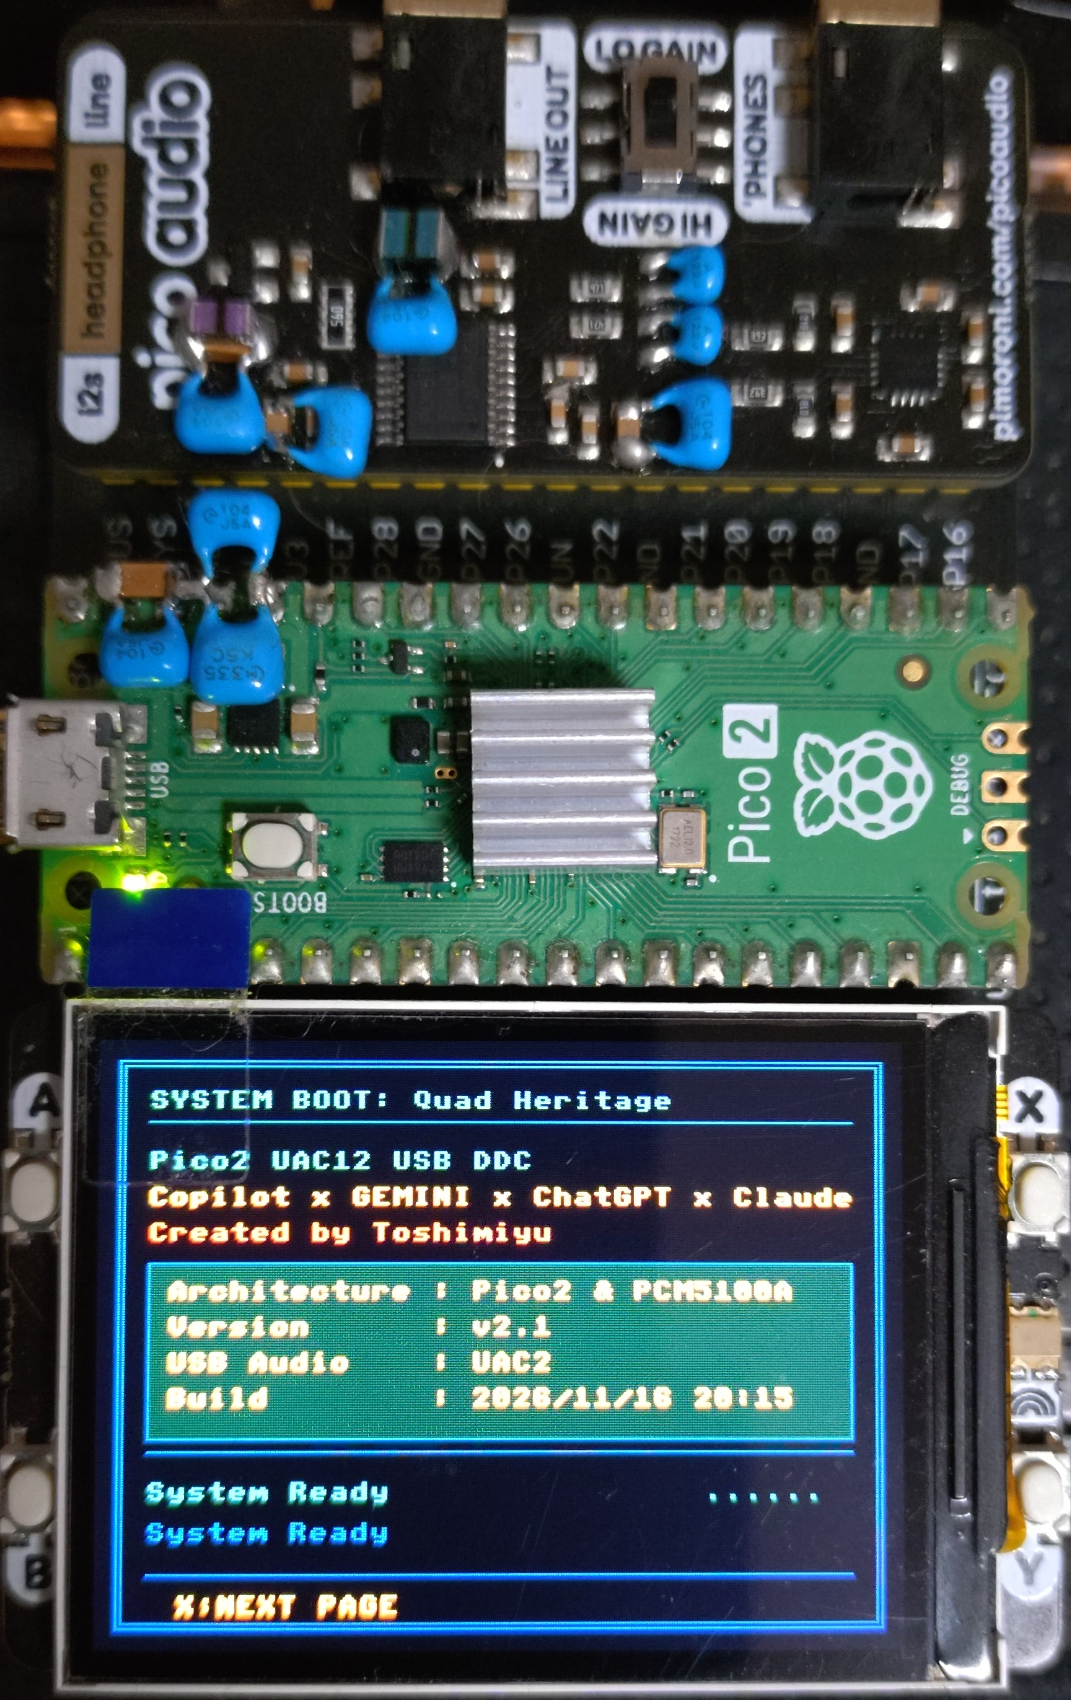
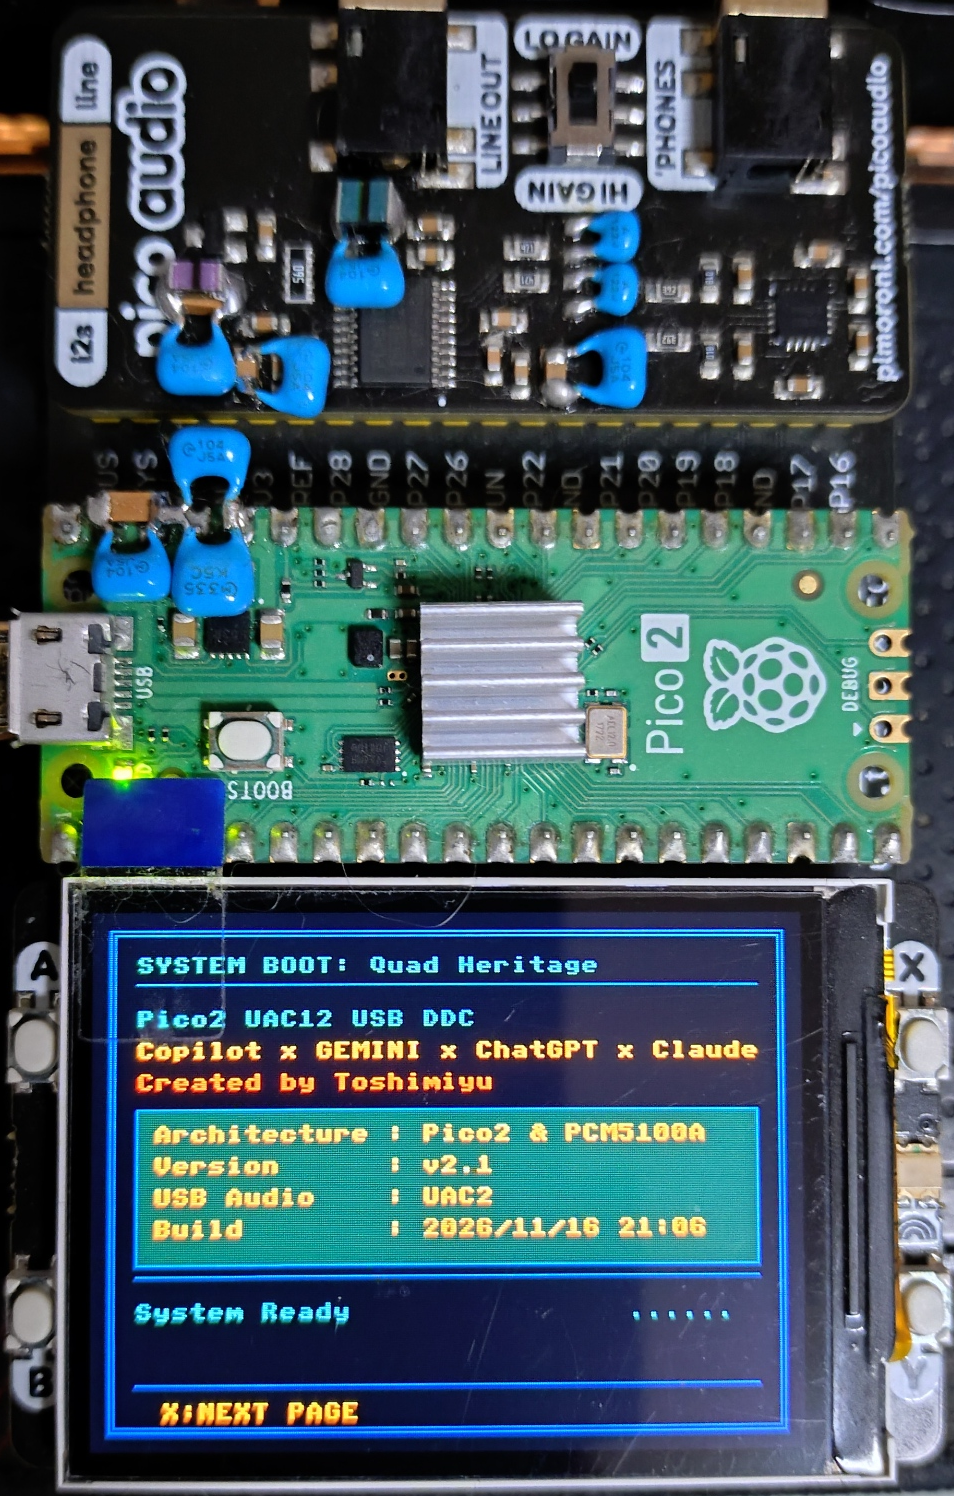
Update boot screen ready display and photo

diff --git a/src/display_rta.c b/src/display_rta.c
@@ -41,6 +41,7 @@
 // ===================================================
 #define PEAK_HOLD_US      300000u
 #define DIAGNOSTICS_RESET_HOLD_US 3000000u
+#define BOOT_READY_DETAIL_HOLD_US 500000u
 #define PEAK_FALL_PIXELS_PER_SEC 120u
 #define PEAK_FALL_PIXEL_INTERVAL_US (1000000u / PEAK_FALL_PIXELS_PER_SEC)
 #define RTA_FRAME_INTERVAL_US 33334u
@@ -202,8 +203,10 @@ static uint32_t peak_l_meter_next_fall = 0;
 static uint32_t peak_r_meter_next_fall = 0;
 static uint16_t last_l_meter_marker = PEAK_NONE_Y;
 static uint16_t last_r_meter_marker = PEAK_NONE_Y;
-static uint32_t splash_start_us = 0;
-static uint8_t splash_stage = 0;   
+static uint8_t splash_stage = 0;
+static uint64_t splash_ready_start_us = 0;
+static bool splash_ready_detail_expired = false;
+static uint8_t splash_ready_clear_row = 0;
 static display_page_t current_page = DISPLAY_PAGE_BOOT;
 static bool page_clear_pending = false;
 static uint16_t page_clear_row = 0;
@@ -804,10 +807,9 @@ static const char *const boot_steps[6] = {
     lcd_draw_string(20, 174, splash_stage >= 5 ? "System Ready" : "Initializing Subsystems",
         COLOR_TITLE, COLOR_BG, 1);
 
-    splash_start_us = time_us_32();
-
     lcd_draw_string(240, 174, ".", COLOR_TITLE, COLOR_BG, 1);
-    lcd_draw_string(20, 190, boot_steps[splash_stage <= 5 ? splash_stage : 0], COLOR_DIVIDER, COLOR_BG, 1);
+    if (splash_stage < 5 || !splash_ready_detail_expired)
+        lcd_draw_string(20, 190, boot_steps[splash_stage <= 5 ? splash_stage : 0], COLOR_DIVIDER, COLOR_BG, 1);
     lcd_fill_rect(20, 210, 280, 1, COLOR_DIVIDER);
     lcd_draw_string(32, 218, "X:NEXT PAGE", COLOR_CH_LABEL, COLOR_BG, 1);
 }
@@ -828,6 +830,12 @@ void display_rta_set_boot_stage(uint8_t stage)
         stage = 5;
     }
 
+    if (stage == 5 && splash_stage != 5)
+    {
+        splash_ready_start_us = time_us_64();
+        splash_ready_detail_expired = false;
+        splash_ready_clear_row = 0;
+    }
     splash_stage = stage;
     if (current_page != DISPLAY_PAGE_BOOT || page_clear_pending)
     {
@@ -836,14 +844,23 @@ void display_rta_set_boot_stage(uint8_t stage)
 
     lcd_fill_rect(20, 190, 250, 12, COLOR_BG);
 
-    lcd_draw_string(
-        20,
-        190,
-        boot_steps[stage],
-        COLOR_DIVIDER,
-        COLOR_BG,
-        1
-    );
+    if (stage < 5 || !splash_ready_detail_expired)
+    {
+        lcd_draw_string(
+            20,
+            190,
+            boot_steps[stage],
+            COLOR_DIVIDER,
+            COLOR_BG,
+            1
+        );
+    }
+
+    if (stage == 5)
+    {
+        lcd_fill_rect(20, 174, 184, 8, COLOR_BG);
+        lcd_draw_string(20, 174, "System Ready", COLOR_TITLE, COLOR_BG, 1);
+    }
 
     char dots[7] = {0};
 
@@ -1038,6 +1055,12 @@ static bool display_audio_has_slack(void)
 
 bool display_rta_page_service(void)
 {
+    if (splash_stage == 5 && !splash_ready_detail_expired &&
+        time_us_64() - splash_ready_start_us >= BOOT_READY_DETAIL_HOLD_US)
+    {
+        splash_ready_detail_expired = true;
+    }
+
     if (page_clear_pending)
     {
         if (page_clear_row < 240)
@@ -1118,6 +1141,12 @@ bool display_rta_page_service(void)
             page_draw_pending = false;
             page_ready = true;
         }
+    }
+    else if (current_page == DISPLAY_PAGE_BOOT && splash_ready_detail_expired &&
+             splash_ready_clear_row < 8 && display_audio_has_slack())
+    {
+        lcd_fill_rect(20, 190 + splash_ready_clear_row, 96, 1, COLOR_BG);
+        splash_ready_clear_row++;
     }
 
     return false;

diff --git a/README_EN.md b/README_EN.md
@@ -330,6 +330,7 @@ Pico2 + Pico Audio Pack (PCM5100A) + Pico Display Pack 2.0
 ## Display Specification (Pico Display Pack 2.0)
 
 At startup, the boot screen is displayed. After initialization completes, the playback screen is shown.
+After startup completes, the lower `System Ready` message is cleared after about 0.5 seconds; the upper message remains.
 
 The X button on Pico Display Pack 2.0 cycles through the following screens in one direction:
 

diff --git a/README.md b/README.md
@@ -310,6 +310,7 @@ Pico 2 + Pico Audio Pack（PCM5100A）+ Pico Display Pack 2.0
 ## 表示仕様（Pico Display Pack 2.0）
 
 起動時に起動画面を表示し、初期化が完了すると再生画面に切り替わります。
+起動完了時は下段の`System Ready`を約0.5秒後に消去し、上段の表示は残ります。
 
 Pico Display Pack 2.0のXボタンで、以下の画面を一方向に切り替えられます。
 
